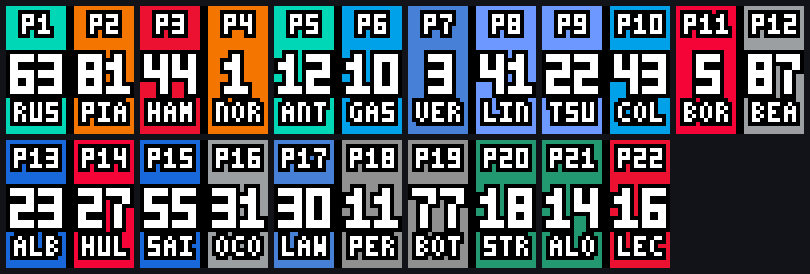
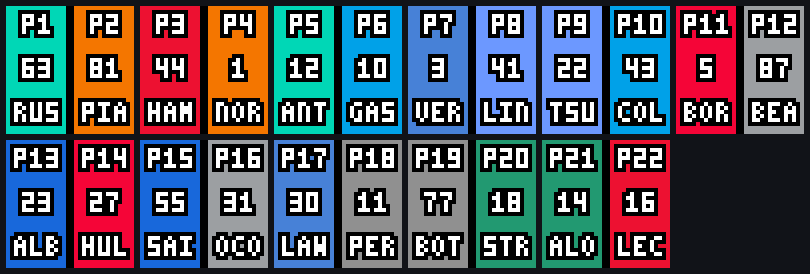
Grid walkthrough: numbers back to the size of the position and code text
The numbers had grown to 10 px tall, which crowded the cards. They are now the same
5 px height as the position and the driver code, centred exactly across the card
(a number at this size has an odd width, like the card) and centred vertically in
the space between the two.

README and previews updated.

Changed region(s): [[0.0, 0.1752, 1.0, 0.3796], [0.0, 0.6715, 0.8333, 0.8467]]

diff --git a/src/main/protocol/resultGifs.js b/src/main/protocol/resultGifs.js
@@ -119,11 +119,11 @@ function encode(width, height, frames) {
  * A driver's number filled into the zone [zoneTop, zoneTop + zoneHeight), as big as
  * fits, centred on `centerX` within `maxWidth`.
  */
-function drawNumber(c, number, centerX, maxWidth, zoneTop, zoneHeight, rgb, outline = null, clip = null, round = Math.round) {
+function drawNumber(c, number, centerX, maxWidth, zoneTop, zoneHeight, rgb, outline = null, clip = null, round = Math.round, maxScale = 99) {
   const text = String(number);
   // One size for every number, as big as two digits allow (with a pixel for the outline
   // on each side), so 1 and 63 come out the same height.
-  let scale = Math.min(99, Math.floor(zoneHeight / 5));
+  let scale = Math.min(maxScale, Math.floor(zoneHeight / 5));
   while (scale > 1 && textWidth('00', scale, 1) + 2 > maxWidth) scale--;
   drawCentered(c, text, scale, centerX, zoneTop + Math.floor((zoneHeight - 5 * scale) / 2), rgb, outline, clip || { x: 0, w: maxWidth }, round);
 }
@@ -145,15 +145,19 @@ function drawDriverCard(c, driver, x0, cardWidth, leftCard) {
   fillRect(c, x0, 0, cardWidth, h, bg);
 
   const pos = `P${driver.position}`;
-  drawCentered(c, pos, fitScale(pos, cardWidth - 2, small), centerX, Math.round(h * 0.07), fg, outline, clip);
-
-  const zoneTop = Math.round(h * 0.3);
-  // A single digit (6 px) cannot sit exactly in the middle of a 15 px card. Lean both cards
-  // towards the divider, so the pair stays symmetric about the middle of the screen.
-  drawNumber(c, driver.number, centerX, cardWidth, zoneTop, Math.round(h * 0.74) - zoneTop, fg, outline, clip, leftCard ? Math.ceil : Math.floor);
+  const posScale = fitScale(pos, cardWidth - 2, small);
+  const posTop = Math.round(h * 0.07);
+  drawCentered(c, pos, posScale, centerX, posTop, fg, outline, clip);
 
   const tlaScale = fitScale(driver.tla, cardWidth - 2, small);
-  drawCentered(c, driver.tla, tlaScale, centerX, h - 5 * tlaScale - Math.round(h * 0.09), fg, outline, clip);
+  const tlaTop = h - 5 * tlaScale - Math.round(h * 0.09);
+  drawCentered(c, driver.tla, tlaScale, centerX, tlaTop, fg, outline, clip);
+
+  // The number sits centred in the space between the two, at the same size as they are
+  // (a bigger number crowds the card). A number at this size has an odd width, like the card,
+  // so it centres exactly.
+  const zoneTop = posTop + 5 * posScale + 1;
+  drawNumber(c, driver.number, centerX, cardWidth, zoneTop, tlaTop - 1 - zoneTop, fg, outline, clip, Math.round, small);
 }
 
 /** Two drivers side by side: the front-row pair, then the next pair back, and so on. */

diff --git a/README.md b/README.md
@@ -214,7 +214,7 @@ These four screens draw drivers in their **team colors**, using the number and t
 </p>
 <p align="center"><sub>Grid walkthrough, race winner, podium, pole position</sub></p>
 
-**Grid walkthrough (races).** From 45 minutes before the scheduled start until the lights go out, the panel walks the grid from the front, two drivers at a time: P1 and P2, then P3 and P4, and so on, scrolling down the grid from one pair to the next and looping. Each card shows the position, the driver number and their code on the team color. All text is white with a black outline, so it stays readable on every team color. All numbers are drawn at the same size and centered on their card, with the gap between the two digits chosen so a number sits exactly in the middle. A full lap of a 22 car grid takes about half a minute. Flags and overlays that arrive during the walkthrough are remembered but not shown, and the right flag appears the moment the race starts. The order is the running order in Multiviewer's timing data; if it does not match the grid on your session, please open an issue.
+**Grid walkthrough (races).** From 45 minutes before the scheduled start until the lights go out, the panel walks the grid from the front, two drivers at a time: P1 and P2, then P3 and P4, and so on, scrolling down the grid from one pair to the next and looping. Each card shows the position, the driver number and their code on the team color. All text is white with a black outline, so it stays readable on every team color. Numbers are drawn at the same size as the position and the code, so a card does not feel crowded, and they are centered exactly on the card, both across and between the position and the code. A full lap of a 22 car grid takes about half a minute. Flags and overlays that arrive during the walkthrough are remembered but not shown, and the right flag appears the moment the race starts. The order is the running order in Multiviewer's timing data; if it does not match the grid on your session, please open an issue.
 
 <p align="center"><img src="docs/previews/grid-screens.png" alt="Every screen of a 22 car grid walkthrough" width="640"></p>
 
